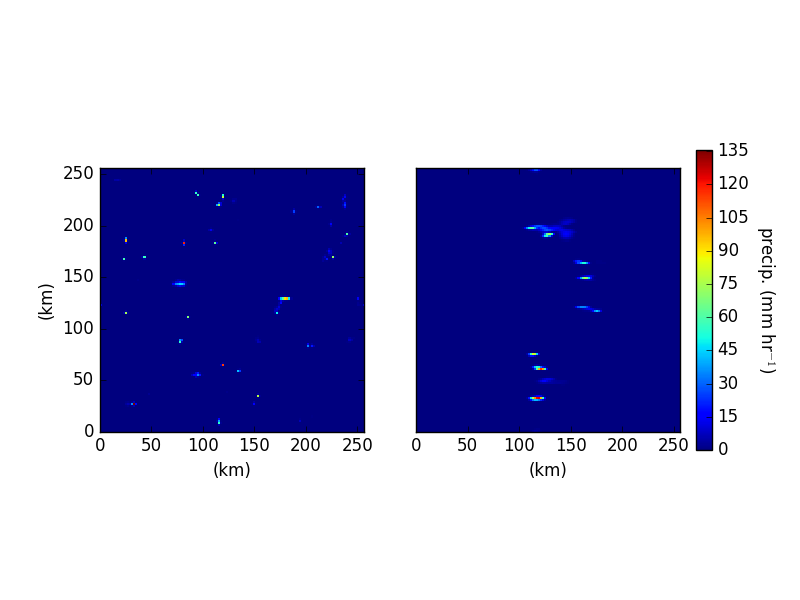
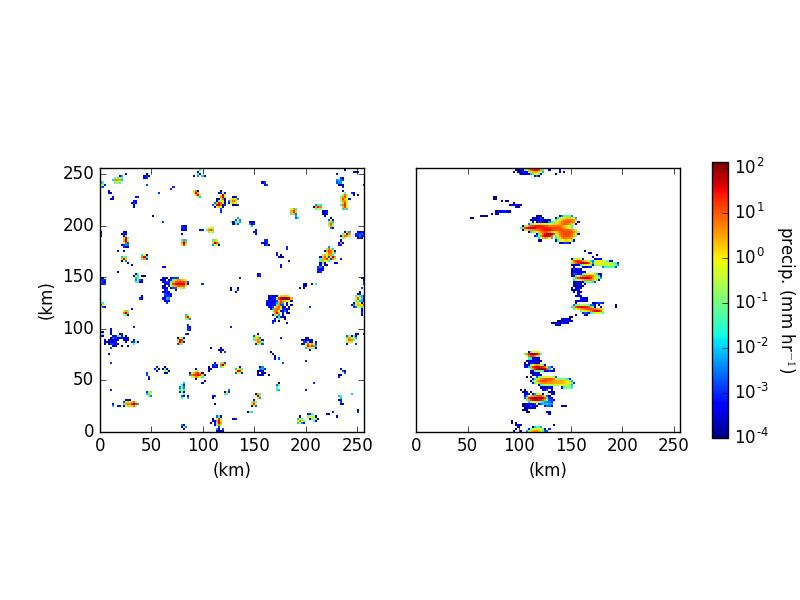
Change precip to log scale, add cropping tool to figs.

diff --git a/figs/crop_figs.py b/figs/crop_figs.py
@@ -1,0 +1,31 @@
+import os
+import re
+from glob import glob
+
+from PIL import Image
+
+FILES_TO_CROP = [
+    ('atmos.precip_plot.time_index*png', (10, 150, 800, 500)),
+]
+
+
+def crop(filename, rect):
+    if re.search('_cropped', filename):
+        print('Already cropped {}'.format(filename))
+        return
+    print('Cropping {}'.format(filename))
+    out_filename = '{}_cropped{}'.format(*os.path.splitext(filename))
+    im = Image.open(filename)
+    print('Orig size: {}'.format(im.getbbox()))
+    cropped_im = im.crop(rect)
+    print('Crop size: {}'.format(cropped_im.getbbox()))
+    cropped_im.save(out_filename)
+
+def main():
+    for filename_glob, rect in FILES_TO_CROP:
+        for filename in sorted(glob(filename_glob)):
+            crop(filename, rect)
+
+
+if __name__ == '__main__':
+    main()

diff --git a/main.tex b/main.tex
@@ -119,7 +119,7 @@ The shear profile that we choose to impose was originally derived from the Marsh
 
 \begin{figure}[htp!]
     \centering
-    \includegraphics[width=400px]{figs/{atmos.precip_plot.time_index1865}.png}
+    \includegraphics[width=400px]{figs/{atmos.precip_plot.time_index1870_cropped}.png}
     \caption{}
     \label{fig:S0_S4_snapshot}
 \end{figure}
